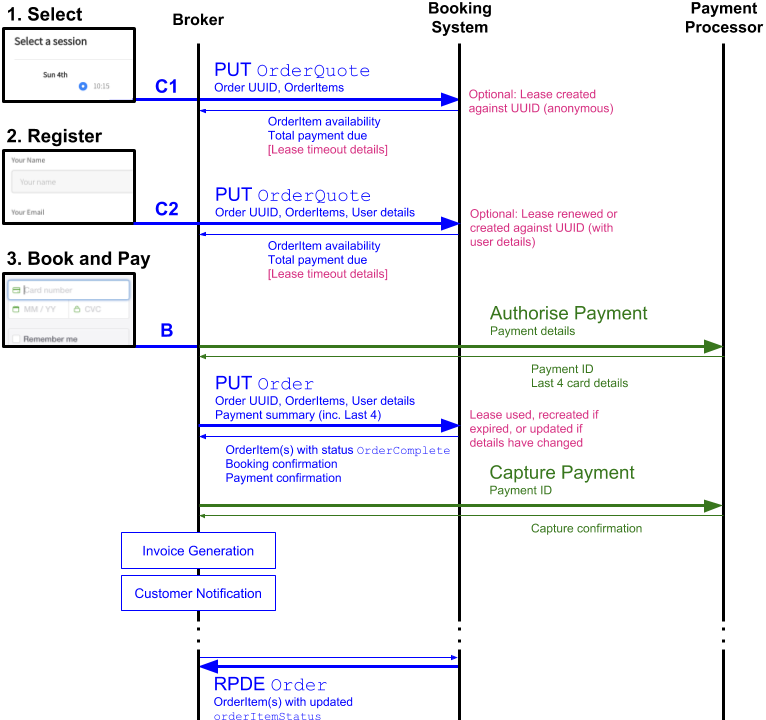
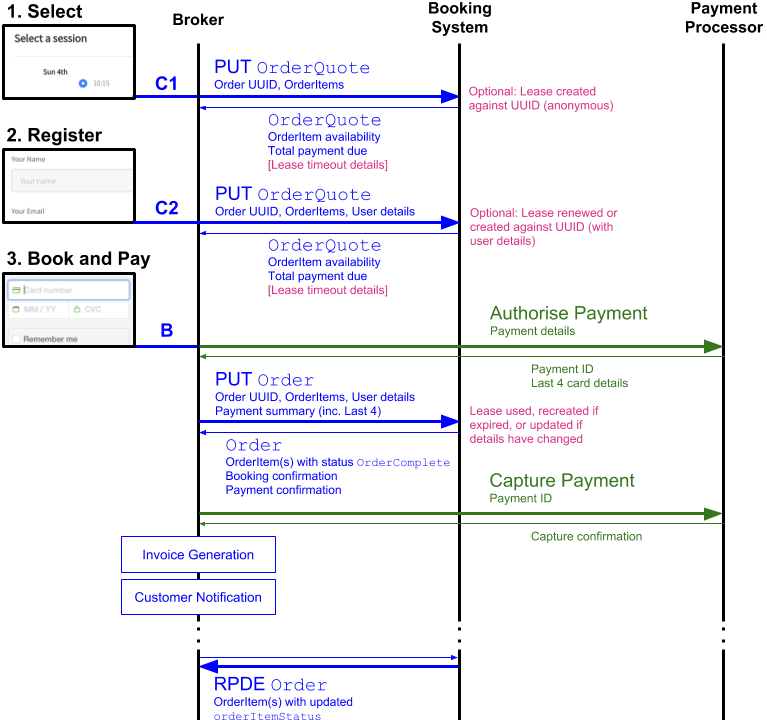
Updated diagram based on feedback:

diff --git a/EditorsDraft/index.html b/EditorsDraft/index.html
@@ -676,8 +676,8 @@ github.com style (c) Vasily Polovnyov <vast@whiteants.net>
       "id": "openidconnect"
     }
   },
-  "publishISODate": "2019-02-26T00:00:00.000Z",
-  "generatedSubtitle": "Draft Community Group Report 26 February 2019"
+  "publishISODate": "2019-02-27T00:00:00.000Z",
+  "generatedSubtitle": "Draft Community Group Report 27 February 2019"
 }</script><meta name="description" content="This document specifies an HTTP API for placing bookings to participate in
 physical activities, either by attending events or through the use of leisure
 or sports facilities."></head>
@@ -688,7 +688,7 @@ or sports facilities."></head>
       
       <h2>
         Draft Community Group Report
-        <time class="dt-published" datetime="2019-02-26">26 February 2019</time>
+        <time class="dt-published" datetime="2019-02-27">27 February 2019</time>
       </h2>
       <dl>
         
@@ -923,15 +923,15 @@ via a booking system. e.g. a leisure provider running yoga classes.</dd>
   <span class="hljs-string">"type"</span>: <span class="hljs-string">"Lease"</span>,
   <span class="hljs-string">"leaseExpires"</span>: <span class="hljs-string">"2018-10-01T11:00:00Z"</span>
 }</pre>
-        </div><p>The <code>leaseExpires</code> <em class="rfc2119" title="MAY">MAY</em> be used to inform the <code>Customer</code> of the time they have remaining.</p></section></section><section id="step-by-step-process-description"><h3 id="x5-3-step-by-step-process-description"><span class="secno">5.3 </span>Step-by-step process description<a class="self-link" aria-label="§" href="#step-by-step-process-description"></a></h3><figure id="fig-sequence-diagram-showing-api-interactions"><img src="sequencediagram.png" alt="Sequence diagram" height="720" width="766">
+        </div><p>The <code>leaseExpires</code> <em class="rfc2119" title="MAY">MAY</em> be used to inform the <code>Customer</code> of the time they have remaining.</p></section></section><section id="step-by-step-process-description"><h3 id="x5-3-step-by-step-process-description"><span class="secno">5.3 </span>Step-by-step process description<a class="self-link" aria-label="§" href="#step-by-step-process-description"></a></h3><figure id="fig-sequence-diagram-showing-api-interactions"><img src="sequencediagram.png" alt="Sequence diagram" height="720" width="767">
 <figcaption>Figure <span class="figno">4</span> <span class="fig-title">Sequence diagram showing API interactions</span></figcaption>
 </figure><p>i) "<strong>1. Select</strong>" - User browses broker site anonymously and adds something to basket</p><ul>
 <li><a href="#dfn-broker" class="internalDFN" data-link-type="dfn">Broker</a> <em class="rfc2119" title="MUST">MUST</em> have determined at least one an Open Booking <a href="#dfn-bookable" class="internalDFN" data-link-type="dfn">bookable</a> opportunity each with an associated <a href="#dfn-applicable-offers" class="internalDFN" data-link-type="dfn">Applicable <code>offer</code></a> from the user's browsing, using the most up-to-date opportunity data.</li>
 <li><a href="#dfn-broker" class="internalDFN" data-link-type="dfn">Broker</a> generates session UUID.</li>
 <li>If any catastrophic failure occurs during the booking flow, the UUID <em class="rfc2119" title="MUST">MUST</em> be regenerated to allow for a clean retry of the booking. UUID <em class="rfc2119" title="SHOULD NOT">SHOULD NOT</em> be regenerated for expected errors.</li>
 </ul><p>ii) <strong>C1</strong> - <a href="#dfn-broker" class="internalDFN" data-link-type="dfn">Broker</a> call with <code>OrderQuote</code> including UUID without a <code>customer</code> object to check availability and that the combination of items requested can be purchased (call is idempotent), <a href="#dfn-booking-system" class="internalDFN" data-link-type="dfn">Booking System</a> responds with an <code>OrderQuote</code>.</p><ul>
-<li><a href="#dfn-booking-system" class="internalDFN" data-link-type="dfn">Booking System</a> creates anonymous lease for that UUID if it is supported, otherwise it provides a simple availability and <code>totalPaymentDue</code> confirmation. Response 200 indicates quote has been successfully produced (which implies all requested items are available). Response may include a <code>lease</code> to indicate a lease has also been created against the UUID.</li>
-<li><code>OrderQuote</code> includes total pricing confirmation in response for basket to be updated, as well as enumerated <code>OrderItem</code>s with their respective details that can be rendered by the <a href="#dfn-broker" class="internalDFN" data-link-type="dfn">Broker</a> to ensure accuracy (rather than relying on syncing with the open feed).</li>
+<li><a href="#dfn-booking-system" class="internalDFN" data-link-type="dfn">Booking System</a> creates anonymous lease for that UUID if it is supported, otherwise it provides a simple availability and <code>totalPaymentDue</code> confirmation. An <code>OrderQuote</code> response with HTTP Status 200 will be returned if the all requested items are available. The <code>OrderQuote</code> may include a <code>lease</code> to indicate a lease has also been created against the UUID.</li>
+<li><code>OrderQuote</code> includes <code>totalPaymentDue</code>, which allows the <a href="#dfn-broker" class="internalDFN" data-link-type="dfn">Broker</a> to update any UI with the total, as well as enumerated <code>OrderItem</code>s with their respective details that can be rendered by the <a href="#dfn-broker" class="internalDFN" data-link-type="dfn">Broker</a> to ensure accuracy (rather than relying on syncing with the open feed).</li>
 <li>The <a href="#dfn-booking-system" class="internalDFN" data-link-type="dfn">Booking System</a> <em class="rfc2119" title="MUST">MUST</em> ensure that the data returned to the <a href="#dfn-broker" class="internalDFN" data-link-type="dfn">Broker</a> in the <code>remainingAttendeeCapacity</code> and <code>remainingUses</code> properties are up-to-date, and only include places already booked and <em>not</em> places currently reserved by leases from competing <code>OrderQuote</code>s.</li>
 </ul><p>iii) "<strong>2. Register / Login</strong>" - User clicks checkout and enters personal details</p><ul>
 <li>The <a href="#dfn-customer" class="internalDFN" data-link-type="dfn">Customer</a> <em class="rfc2119" title="MUST">MUST</em> have indicated that their personal information is being submitted to the <a href="#dfn-booking-system" class="internalDFN" data-link-type="dfn">Booking System</a> and the <a href="#dfn-seller" class="internalDFN" data-link-type="dfn">Seller</a>.</li>

diff --git a/EditorsDraft/edit.html b/EditorsDraft/edit.html
@@ -512,6 +512,7 @@ When a lease is created, a `Lease` object MUST be returned in the `OrderQuote`.
 The `leaseExpires` MAY be used to inform the `Customer` of the time they have remaining.
 
 
+
 ## Step-by-step process description
 
 <figure>
@@ -527,8 +528,8 @@ i) "**1. Select**" - User browses broker site anonymously and adds something to 
 
 ii) **C1** - <a>Broker</a> call with `OrderQuote` including UUID without a `customer` object to check availability and that the combination of items requested can be purchased (call is idempotent), <a>Booking System</a> responds with an `OrderQuote`.
 
-  - <a>Booking System</a> creates anonymous lease for that UUID if it is supported, otherwise it provides a simple availability and `totalPaymentDue` confirmation. Response 200 indicates quote has been successfully produced (which implies all requested items are available). Response may include a `lease` to indicate a lease has also been created against the UUID.
-  - `OrderQuote` includes total pricing confirmation in response for basket to be updated, as well as enumerated `OrderItem`s with their respective details that can be rendered by the <a>Broker</a> to ensure accuracy (rather than relying on syncing with the open feed).
+  - <a>Booking System</a> creates anonymous lease for that UUID if it is supported, otherwise it provides a simple availability and `totalPaymentDue` confirmation. An `OrderQuote` response with HTTP Status 200 will be returned if the all requested items are available. The `OrderQuote` may include a `lease` to indicate a lease has also been created against the UUID.
+  - `OrderQuote` includes `totalPaymentDue`, which allows the <a>Broker</a> to update any UI with the total, as well as enumerated `OrderItem`s with their respective details that can be rendered by the <a>Broker</a> to ensure accuracy (rather than relying on syncing with the open feed).
   - The <a>Booking System</a> MUST ensure that the data returned to the <a>Broker</a> in the `remainingAttendeeCapacity` and `remainingUses` properties are up-to-date, and only include places already booked and *not* places currently reserved by leases from competing `OrderQuote`s.
 
 iii) "**2. Register / Login**" - User clicks checkout and enters personal details

diff --git a/EditorsDraft/examples.js b/EditorsDraft/examples.js
@@ -70,6 +70,10 @@ function dataExampleRateLimitResponse(utils, content) {
     });
 }
 
+
+// Switch to including only new orders in the feed, not existing Orders - include issue on this.
+
+
 //TODO: Include rate limiting scheme!! [DONE]
 
 
